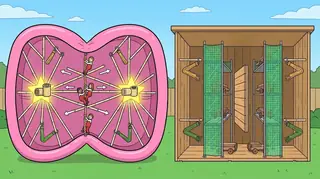
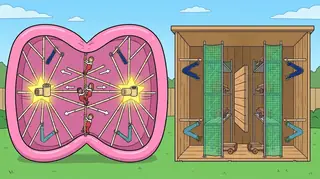
염색체 문법: L48b 짚을 남색 · 하늘색으로(PIL · 독자 셋 ○) · s4 · s7 글 · 잠금 옮김 · s4 짚 모양 불일치 대장 N-L48b-01
Claude-Session: https://claude.ai/code/session_01MmBfjCCfApg1Fah4PzyPtS

diff --git a/lesson/L48b.html b/lesson/L48b.html
@@ -140,7 +140,7 @@ const LStore = (() => {
   };
 })();
 
-const L0 = /*L0*/{"id":"L48b","scene":"s48","part":"b","title":"별 뜨는 풍선집 · 별 없는 창고 — 방추체와 세포질분열","sub":"풍선집(동물) — 별(성상체) · 꼭지의 직각 원통 둘(중심체 · 중심립) · 걸쇠 걸린 대롱(방추사) · 겹친 긴 대롱(극성 · 후기 B) · 허리 안쪽 팽팽한 살구색 줄 + 등반가(수축환 · 액틴 + 마이오신) / 창고(식물) — 별 없이 맨 벽 대롱 · 가운데부터 칸막이(세포판) · 초록 그물 비계 + 손수레(프라그모플라스트)","img":"img/L48b.webp?v=ce1fb19c6350","w":2048,"h":1144,"stops":[{"sid":"s1","obj":"볕 드는 뒷마당 — 왼쪽은 허리가 땅콩처럼 잘록한 분홍 풍선집 · 오른쪽은 벽이 꼿꼿한 나무 창고 · 둘 다 앞을 잘라 속을 보인다","fact":"동물 vs 식물의 분열 기계 — 별(성상체)과 꼭지(중심체)가 있나 없나 · 조여 가르나 가운데부터 쌓나","hook":"무른 풍선집 = 동물 · 꼿꼿한 창고 = 식물","say":"햇볕이 드는 뒷마당에 집 두 채가 있다. 왼쪽 분홍 풍선집은 벽이 부드러워 허리가 땅콩처럼 잘록해졌지만, 오른쪽 나무 창고는 벽이 단단해 조여지지 않는다. 풍선집은 세포벽 없이 세포막만 있는 동물세포, 창고는 세포벽이 있는 식물세포이며 둘 다 지금 둘로 나뉘고 있다. 동물은 별이 있고 허리를 조여 분리하며, 식물은 별 없이 가운데에 새 벽을 만든다.","box":null,"src":["s48p02#0"],"cards":[]},{"sid":"s2","obj":"풍선집 양 끝에 하나씩 뜬 빛나는 노란 별 — 가운데 꼭지에서 속 빈 대나무 대롱이 사방으로","fact":"성상체(별모양체) — 동물세포가 분열할 때 나타나고 식물세포엔 없다","hook":"별 모양 = 성상체(星狀)","say":"풍선집 양 끝의 노란 별을 보자. 가운데 꼭지에서 속이 빈 대나무 대롱이 사방으로 뻗어 별 모양을 이룬다. 동물세포 분열 때 나타나는 성상체, 별모양체이며 식물세포에는 없다. 대롱은 미세소관이다. 헛간에서 삼밧줄로 나타낸 구조를 가까이 보면 속이 빈 관이라는 뜻이다. 별 둘이 각각의 극이 된다.","box":[[190,490,160,170],[760,490,160,170]],"src":["s48p04#0"],"cards":["C1-76"]},{"sid":"s3","obj":"별 꼭지마다 냅킨 고리 같은 속 빈 원통 둘 — 하나는 눕고 하나는 서서 직각으로 붙었다","fact":"중심체 = 중심립 2개 · 둘은 서로 직각으로 놓인다","hook":"꼭지 = 중심체 · 원통 둘 = 중심립 · 직각","say":"별 가운데의 꼭지는 중심체다. 안에는 속이 빈 원통 둘이 있는데 하나는 누워 있고 하나는 서 있어 서로 직각이다. 중심체의 중심립 두 개와 직각 배열을 연결하자. 기출에서는 개수가 둘이라는 점과 직각이라는 점을 각각 묻는다.","box":[[220,536,110,84],[776,540,104,80]],"src":["s48p04#1"],"cards":["A0-129","C1-72"]},{"sid":"s4","obj":"별에서 뻗은 대롱 끝에 짚의 걸쇠가 걸렸다 — 별마다 위에 금빛 · 아래에 초록","fact":"중심체가 방추사(미세소관)를 만들어 염색체를 잡아당긴다","hook":"별의 대롱이 짚을 건다","say":"별에서 나온 일부 대롱 끝에는 짚의 걸쇠가 걸려 있다. 각 별의 위에는 금빛 짚 하나, 아래에는 초록 짚 하나가 있다. 중심체에서 만든 미세소관 방추사가 염색체를 붙잡아 당기는 모습이다. 염색분체를 당기는 방추사의 성분은 속 빈 대롱인 미세소관이다. 헛간 넷째 칸에서 양쪽 벽으로 이동하던 짚과 그때의 걸쇠를 연결하자.","box":[[280,290,100,120],[200,770,155,150],[730,290,90,120],[715,765,165,150]],"src":["s48p04#2"],"cards":["A0-131","C1-15"]},{"sid":"s5","obj":"두 별에서 나온 긴 대롱들이 한가운데에서 서로 엇갈려 겹친다 — 어느 걸쇠에도 걸리지 않았다","fact":"극성 미세소관 — 염색체에 붙지 않고 세포를 길게 늘린다","hook":"걸지 않고 겹친다 = 극성","say":"두 별에서 나온 긴 대롱은 가운데에서 서로 겹치지만 어떤 걸쇠에도 붙지 않는다. 염색체에 결합하지 않고 세포를 길게 만드는 극성 미세소관이다. 방추사를 모두 같은 역할로 외우지 말고, 염색체에 붙은 대롱과 구분하자.","box":[400,410,310,310],"src":["s48p04#3"],"cards":["C1-71"]},{"sid":"s6","obj":"겹친 대롱 위 흰 화살표는 왼쪽은 왼쪽 · 오른쪽은 오른쪽 · 별 뒤에 움직임 선 — 두 별이 벌어진다","fact":"후기 B — 극성 미세소관이 미끄러져 양극 사이가 멀어진다","hook":"B = 벌어진다(극이)","say":"겹친 대롱 위의 흰 화살표는 왼쪽은 왼쪽, 오른쪽은 오른쪽을 향하고 별 뒤에는 움직임 선이 있다. 겹친 부분이 미끄러지면서 두 별 사이가 멀어진다. 극성 미세소관이 양극을 벌리는 후기 B이다. 후기 A는 염색체가 극으로 이동하는 과정, 후기 B는 극 자체가 멀어지는 과정이다. B를 벌어짐과 연결하자.","box":[[370,410,370,335],[110,540,90,90],[900,540,80,90]],"src":["s48p04#4"],"cards":["C1-110"]},{"sid":"s7","obj":"창고 안 — 별도 빛도 없이 대롱이 맨 벽에서 곧장 나와 짚을 건다(벽마다 위 금빛 · 아래 초록)","fact":"식물세포엔 중심체 · 성상체가 없다 — 방추사는 별 없이 만든다","hook":"별 없는 창고","say":"나무 창고에는 별이나 빛나는 구조가 없지만 대롱은 있다. 벽에서 바로 뻗어 짚을 잡고 있다. 모든 진핵세포가 중심체를 가지는 것은 아니다. 식물세포에는 중심체와 성상체가 없지만, 별 없이도 방추사를 형성한다.","box":[[1140,350,160,560],[1800,350,170,560]],"src":["s48p04#5"],"cards":["A0-132"]},{"sid":"s8","obj":"풍선집 허리 — 가는 살구색 줄 한 가닥이 위아래 벽 안쪽에 팽팽히 묶여 벽을 끌어당긴다 · 집 밖에는 줄이 없다","fact":"동물 세포질분열 — 수축환이 세포막을 안쪽에서 조여 함입시킨다","hook":"안에서 조인다 = 함입","say":"풍선집 허리를 보자. 가는 살구색 줄 한 가닥이 위아래 벽의 안쪽에 팽팽히 연결되어 벽을 안으로 당긴다. 집 밖에는 줄이 없으며, 허리를 두른 고리를 옆에서 본 모습이다. 동물의 세포질분열에서는 세포막 바로 안쪽 수축환이 조여 막이 함입된다. 잘록해진 홈은 분할구이며, 밖에서 안으로 진행하는 구심성 분열이다. 새 벽을 만드는 대신 기존 세포막을 조여 나눈다.","box":[520,260,80,670],"src":["s48p02#1"],"cards":["C1-28","D0-87"]},{"sid":"s9","obj":"그 줄에 매달려 손을 바꿔 가며 당기는 빨간 멜빵 등반가들","fact":"수축환의 주성분 = 액틴(가는 꼰 줄)과 마이오신(당기는 쪽)","hook":"팽팽한 살구색 줄 = 액틴 · 등반가 = 마이오신","say":"살구색 줄에는 빨간 멜빵을 입은 등반가들이 매달려 번갈아 손을 옮기며 당긴다. 줄은 액틴 미세섬유, 당기는 사람은 마이오신이다. 세포연접 방에서 핵을 감싼 노란 꼬인 줄인 중간섬유와는 다르다. 줄만으로는 수축하지 못하고 당기는 단백질이 있어야 힘이 난다. 수축환은 액틴과 마이오신으로 이루어진다.","box":[490,350,130,500],"src":["s48p02#2"],"cards":["C1-29"]},{"sid":"s10","obj":"창고 — 벽은 꼿꼿 · 한가운데에 새 널빤지 칸막이가 공중에 떠 있다 · 지붕 · 바닥까지는 아직 틈","fact":"식물 세포질분열 — 세포판이 가운데에서 바깥으로 자라 옛 벽에 닿는다","hook":"가운데부터 쌓는다","say":"나무 창고의 벽은 조여지지 않고, 가운데에 새 널빤지 칸막이가 만들어지고 있다. 아직 가운데 부분만 서 있어 지붕과 바닥 사이에 틈이 남는다. 식물세포의 세포질분열은 세포판을 만드는 방식이다. 가운데에서 바깥으로 자라 기존 벽에 닿는 원심성 분열이다. 조일 수 없는 벽 안에서 새 칸막이를 쌓는다고 연결하자.","box":[1490,400,110,450],"src":["s48p02#3"],"cards":["C1-30","D0-88"]},{"sid":"s11","obj":"칸막이 양옆의 초록 플라스틱 그물 비계 · 그 선반과 바닥에 널빤지를 실은 손수레들","fact":"프라그모플라스트 — 세포판 만들 소낭(골지에서 옴)을 실어 나르는 틀","hook":"플라스틱 그물 = 플라스트 · 울타리처럼 선 비계 = 프라그모(그리스말로 울타리)","say":"칸막이 양쪽의 공사장 비계에 초록 플라스틱 그물이 둘러져 있다. 선반과 바닥에서는 널빤지를 실은 손수레가 칸막이 쪽으로 간다. 프라그모플라스트다. 플라스틱 그물은 플라스트, 그리스말로 울타리를 뜻하는 프라그모는 칸막이 양옆의 그물 비계와 연결한다. 이 구조는 세포판 재료를 담은 소낭을 운반하는 틀이다. 손수레는 창고 안의 골지에서 온 소낭이다. 세포판 그 자체가 아니라 세포판을 만들도록 돕는 틀이라는 점을 구분하자.","box":[[1300,260,240,740],[1570,260,240,740]],"src":["s48p02#4"],"cards":["C1-31"]}],"cq":{"C1-76":["식물세포에는 존재하지 않으나 동물세포 분열 시 나타나는 성상체 구조는?","별모양체 (Aster)"],"A0-129":["중심체(centrosome)의 구성?","한 쌍의 중심립(centriole) 포함"],"C1-72":["중심체(Centrosome)는 몇 개의 중심립으로 구성되는가?","2개 (직각 배열)"],"A0-131":["중심체/미세소관이 세포분열에서 하는 일(노트 표현)?","방추사를 만들어 염색체를 잡아당김"],"C1-15":["염색분체를 끌어당기는 방추사의 구성 성분은?","미세소관 (Microtubule)"],"C1-71":["방추사 미세소관 중 염색체에 붙지 않고 세포 길이를 늘리는 것은?","극성 미세소관"],"C1-110":["후기 B(Anaphase B)란?","극성 미세소관에 의해 양극 사이가 멀어지는 것"],"A0-132":["모든 진핵세포가 중심체를 갖는가?","아님"],"C1-28":["동물세포의 세포질 분열 방식은?","수축환 형성을 통한 세포막 함입"],"D0-87":["동물세포의 세포질분열 방식은?","분할구 형성(구심성 함입)"],"C1-29":["동물세포 수축환을 구성하는 주요 미세필라멘트 성분은?","액틴과 마이오신"],"C1-30":["식물세포의 세포질 분열 방식은?","세포판(Cell plate) 형성"],"D0-88":["식물세포의 세포질분열 방식은?","세포판 형성(원심성)"],"C1-31":["식물세포판 형성을 위해 소낭을 운반해오는 구조는?","프라그모플라스트 (Phragmoplast)"]},"hubPanel":"s48p02"}/*L1*/;   // 다음 그림을 그 자리에서 바꿔 끼울 때, 받아 온 과 쪽에서 이 두 표지 사이의 글을 읽는다
+const L0 = /*L0*/{"id":"L48b","scene":"s48","part":"b","title":"별 뜨는 풍선집 · 별 없는 창고 — 방추체와 세포질분열","sub":"풍선집(동물) — 별(성상체) · 꼭지의 직각 원통 둘(중심체 · 중심립) · 걸쇠 걸린 대롱(방추사) · 겹친 긴 대롱(극성 · 후기 B) · 허리 안쪽 팽팽한 살구색 줄 + 등반가(수축환 · 액틴 + 마이오신) / 창고(식물) — 별 없이 맨 벽 대롱 · 가운데부터 칸막이(세포판) · 초록 그물 비계 + 손수레(프라그모플라스트)","img":"img/L48b.webp?v=d3b08881c59f","w":2048,"h":1144,"stops":[{"sid":"s1","obj":"볕 드는 뒷마당 — 왼쪽은 허리가 땅콩처럼 잘록한 분홍 풍선집 · 오른쪽은 벽이 꼿꼿한 나무 창고 · 둘 다 앞을 잘라 속을 보인다","fact":"동물 vs 식물의 분열 기계 — 별(성상체)과 꼭지(중심체)가 있나 없나 · 조여 가르나 가운데부터 쌓나","hook":"무른 풍선집 = 동물 · 꼿꼿한 창고 = 식물","say":"햇볕이 드는 뒷마당에 집 두 채가 있다. 왼쪽 분홍 풍선집은 벽이 부드러워 허리가 땅콩처럼 잘록해졌지만, 오른쪽 나무 창고는 벽이 단단해 조여지지 않는다. 풍선집은 세포벽 없이 세포막만 있는 동물세포, 창고는 세포벽이 있는 식물세포이며 둘 다 지금 둘로 나뉘고 있다. 동물은 별이 있고 허리를 조여 분리하며, 식물은 별 없이 가운데에 새 벽을 만든다.","box":null,"src":["s48p02#0"],"cards":[]},{"sid":"s2","obj":"풍선집 양 끝에 하나씩 뜬 빛나는 노란 별 — 가운데 꼭지에서 속 빈 대나무 대롱이 사방으로","fact":"성상체(별모양체) — 동물세포가 분열할 때 나타나고 식물세포엔 없다","hook":"별 모양 = 성상체(星狀)","say":"풍선집 양 끝의 노란 별을 보자. 가운데 꼭지에서 속이 빈 대나무 대롱이 사방으로 뻗어 별 모양을 이룬다. 동물세포 분열 때 나타나는 성상체, 별모양체이며 식물세포에는 없다. 대롱은 미세소관이다. 헛간에서 삼밧줄로 나타낸 구조를 가까이 보면 속이 빈 관이라는 뜻이다. 별 둘이 각각의 극이 된다.","box":[[190,490,160,170],[760,490,160,170]],"src":["s48p04#0"],"cards":["C1-76"]},{"sid":"s3","obj":"별 꼭지마다 냅킨 고리 같은 속 빈 원통 둘 — 하나는 눕고 하나는 서서 직각으로 붙었다","fact":"중심체 = 중심립 2개 · 둘은 서로 직각으로 놓인다","hook":"꼭지 = 중심체 · 원통 둘 = 중심립 · 직각","say":"별 가운데의 꼭지는 중심체다. 안에는 속이 빈 원통 둘이 있는데 하나는 누워 있고 하나는 서 있어 서로 직각이다. 중심체의 중심립 두 개와 직각 배열을 연결하자. 기출에서는 개수가 둘이라는 점과 직각이라는 점을 각각 묻는다.","box":[[220,536,110,84],[776,540,104,80]],"src":["s48p04#1"],"cards":["A0-129","C1-72"]},{"sid":"s4","obj":"별에서 뻗은 대롱 끝에 짚의 걸쇠가 걸렸다 — 별마다 위에 남색 · 아래에 하늘색","fact":"중심체가 방추사(미세소관)를 만들어 염색체를 잡아당긴다","hook":"별의 대롱이 짚을 건다","say":"별에서 나온 일부 대롱 끝에는 짚의 걸쇠가 걸려 있다. 각 별의 위에는 남색 짚 하나, 아래에는 하늘색 짚 하나가 있다. 남색과 하늘색, 상동 한 쌍만 크게 그린 장면이다. 극마다 짝이 다 가니 딸세포는 2n이다. 중심체에서 만든 미세소관 방추사가 염색체를 붙잡아 당기는 모습이다. 염색분체를 당기는 방추사의 성분은 속 빈 대롱인 미세소관이다. 헛간 넷째 칸에서 양쪽 벽으로 이동하던 짚과 그때의 걸쇠를 연결하자.","box":[[280,290,100,120],[200,770,155,150],[730,290,90,120],[715,765,165,150]],"src":["s48p04#2"],"cards":["A0-131","C1-15"]},{"sid":"s5","obj":"두 별에서 나온 긴 대롱들이 한가운데에서 서로 엇갈려 겹친다 — 어느 걸쇠에도 걸리지 않았다","fact":"극성 미세소관 — 염색체에 붙지 않고 세포를 길게 늘린다","hook":"걸지 않고 겹친다 = 극성","say":"두 별에서 나온 긴 대롱은 가운데에서 서로 겹치지만 어떤 걸쇠에도 붙지 않는다. 염색체에 결합하지 않고 세포를 길게 만드는 극성 미세소관이다. 방추사를 모두 같은 역할로 외우지 말고, 염색체에 붙은 대롱과 구분하자.","box":[400,410,310,310],"src":["s48p04#3"],"cards":["C1-71"]},{"sid":"s6","obj":"겹친 대롱 위 흰 화살표는 왼쪽은 왼쪽 · 오른쪽은 오른쪽 · 별 뒤에 움직임 선 — 두 별이 벌어진다","fact":"후기 B — 극성 미세소관이 미끄러져 양극 사이가 멀어진다","hook":"B = 벌어진다(극이)","say":"겹친 대롱 위의 흰 화살표는 왼쪽은 왼쪽, 오른쪽은 오른쪽을 향하고 별 뒤에는 움직임 선이 있다. 겹친 부분이 미끄러지면서 두 별 사이가 멀어진다. 극성 미세소관이 양극을 벌리는 후기 B이다. 후기 A는 염색체가 극으로 이동하는 과정, 후기 B는 극 자체가 멀어지는 과정이다. B를 벌어짐과 연결하자.","box":[[370,410,370,335],[110,540,90,90],[900,540,80,90]],"src":["s48p04#4"],"cards":["C1-110"]},{"sid":"s7","obj":"창고 안 — 별도 빛도 없이 대롱이 맨 벽에서 곧장 나와 짚을 건다(벽마다 위 남색 · 아래 하늘색)","fact":"식물세포엔 중심체 · 성상체가 없다 — 방추사는 별 없이 만든다","hook":"별 없는 창고","say":"나무 창고에는 별이나 빛나는 구조가 없지만 대롱은 있다. 벽에서 바로 뻗어 짚을 잡고 있다. 모든 진핵세포가 중심체를 가지는 것은 아니다. 식물세포에는 중심체와 성상체가 없지만, 별 없이도 방추사를 형성한다.","box":[[1140,350,160,560],[1800,350,170,560]],"src":["s48p04#5"],"cards":["A0-132"]},{"sid":"s8","obj":"풍선집 허리 — 가는 살구색 줄 한 가닥이 위아래 벽 안쪽에 팽팽히 묶여 벽을 끌어당긴다 · 집 밖에는 줄이 없다","fact":"동물 세포질분열 — 수축환이 세포막을 안쪽에서 조여 함입시킨다","hook":"안에서 조인다 = 함입","say":"풍선집 허리를 보자. 가는 살구색 줄 한 가닥이 위아래 벽의 안쪽에 팽팽히 연결되어 벽을 안으로 당긴다. 집 밖에는 줄이 없으며, 허리를 두른 고리를 옆에서 본 모습이다. 동물의 세포질분열에서는 세포막 바로 안쪽 수축환이 조여 막이 함입된다. 잘록해진 홈은 분할구이며, 밖에서 안으로 진행하는 구심성 분열이다. 새 벽을 만드는 대신 기존 세포막을 조여 나눈다.","box":[520,260,80,670],"src":["s48p02#1"],"cards":["C1-28","D0-87"]},{"sid":"s9","obj":"그 줄에 매달려 손을 바꿔 가며 당기는 빨간 멜빵 등반가들","fact":"수축환의 주성분 = 액틴(가는 꼰 줄)과 마이오신(당기는 쪽)","hook":"팽팽한 살구색 줄 = 액틴 · 등반가 = 마이오신","say":"살구색 줄에는 빨간 멜빵을 입은 등반가들이 매달려 번갈아 손을 옮기며 당긴다. 줄은 액틴 미세섬유, 당기는 사람은 마이오신이다. 세포연접 방에서 핵을 감싼 노란 꼬인 줄인 중간섬유와는 다르다. 줄만으로는 수축하지 못하고 당기는 단백질이 있어야 힘이 난다. 수축환은 액틴과 마이오신으로 이루어진다.","box":[490,350,130,500],"src":["s48p02#2"],"cards":["C1-29"]},{"sid":"s10","obj":"창고 — 벽은 꼿꼿 · 한가운데에 새 널빤지 칸막이가 공중에 떠 있다 · 지붕 · 바닥까지는 아직 틈","fact":"식물 세포질분열 — 세포판이 가운데에서 바깥으로 자라 옛 벽에 닿는다","hook":"가운데부터 쌓는다","say":"나무 창고의 벽은 조여지지 않고, 가운데에 새 널빤지 칸막이가 만들어지고 있다. 아직 가운데 부분만 서 있어 지붕과 바닥 사이에 틈이 남는다. 식물세포의 세포질분열은 세포판을 만드는 방식이다. 가운데에서 바깥으로 자라 기존 벽에 닿는 원심성 분열이다. 조일 수 없는 벽 안에서 새 칸막이를 쌓는다고 연결하자.","box":[1490,400,110,450],"src":["s48p02#3"],"cards":["C1-30","D0-88"]},{"sid":"s11","obj":"칸막이 양옆의 초록 플라스틱 그물 비계 · 그 선반과 바닥에 널빤지를 실은 손수레들","fact":"프라그모플라스트 — 세포판 만들 소낭(골지에서 옴)을 실어 나르는 틀","hook":"플라스틱 그물 = 플라스트 · 울타리처럼 선 비계 = 프라그모(그리스말로 울타리)","say":"칸막이 양쪽의 공사장 비계에 초록 플라스틱 그물이 둘러져 있다. 선반과 바닥에서는 널빤지를 실은 손수레가 칸막이 쪽으로 간다. 프라그모플라스트다. 플라스틱 그물은 플라스트, 그리스말로 울타리를 뜻하는 프라그모는 칸막이 양옆의 그물 비계와 연결한다. 이 구조는 세포판 재료를 담은 소낭을 운반하는 틀이다. 손수레는 창고 안의 골지에서 온 소낭이다. 세포판 그 자체가 아니라 세포판을 만들도록 돕는 틀이라는 점을 구분하자.","box":[[1300,260,240,740],[1570,260,240,740]],"src":["s48p02#4"],"cards":["C1-31"]}],"cq":{"C1-76":["식물세포에는 존재하지 않으나 동물세포 분열 시 나타나는 성상체 구조는?","별모양체 (Aster)"],"A0-129":["중심체(centrosome)의 구성?","한 쌍의 중심립(centriole) 포함"],"C1-72":["중심체(Centrosome)는 몇 개의 중심립으로 구성되는가?","2개 (직각 배열)"],"A0-131":["중심체/미세소관이 세포분열에서 하는 일(노트 표현)?","방추사를 만들어 염색체를 잡아당김"],"C1-15":["염색분체를 끌어당기는 방추사의 구성 성분은?","미세소관 (Microtubule)"],"C1-71":["방추사 미세소관 중 염색체에 붙지 않고 세포 길이를 늘리는 것은?","극성 미세소관"],"C1-110":["후기 B(Anaphase B)란?","극성 미세소관에 의해 양극 사이가 멀어지는 것"],"A0-132":["모든 진핵세포가 중심체를 갖는가?","아님"],"C1-28":["동물세포의 세포질 분열 방식은?","수축환 형성을 통한 세포막 함입"],"D0-87":["동물세포의 세포질분열 방식은?","분할구 형성(구심성 함입)"],"C1-29":["동물세포 수축환을 구성하는 주요 미세필라멘트 성분은?","액틴과 마이오신"],"C1-30":["식물세포의 세포질 분열 방식은?","세포판(Cell plate) 형성"],"D0-88":["식물세포의 세포질분열 방식은?","세포판 형성(원심성)"],"C1-31":["식물세포판 형성을 위해 소낭을 운반해오는 구조는?","프라그모플라스트 (Phragmoplast)"]},"hubPanel":"s48p02"}/*L1*/;   // 다음 그림을 그 자리에서 바꿔 끼울 때, 받아 온 과 쪽에서 이 두 표지 사이의 글을 읽는다
 let L = L0;
 const $ = id => document.getElementById(id);
 // 요약 줄(sub)에는 물건 = 답이 다 적혀 있다 — 복습 · 시험에서는 접어 두고, 누르면 편다(GPT 추가 감사 2026-11-11 §7)

diff --git a/lesson/index.html b/lesson/index.html
@@ -60,7 +60,7 @@ dialog#big.fb[open]{position:fixed;inset:2vh 2vw;margin:auto;z-index:50;box-shad
 <div class="row" data-id="L19d" data-title="게놈의 수호자 — p53과 종양억제유전자" data-img="img/L19d.webp?v=94e060f06510"><button class="thumb" type="button" aria-label="L19d 그림 크게 보기"><img src="thumb/L19d.webp?v=94e060f06510" width="160" height="90" loading="lazy" decoding="async" alt=""></button><a class="card" href="L19d.html"><b>L19d</b> 게놈의 수호자 — p53과 종양억제유전자<div class="sub">정거장 14 · 기출 카드 36 · DNA 손상 → ATM/ATR → p53(5·3) → p21(2·1) 굄목 · 구덩이(사멸) · 빗장 둘(두 대립유전자 · 열성) · 쥐(Ras) · 쏟아지는 음반(암) · 깁기(BRCA) · 셋(p53 · Rb · BRCA1)</div></a><span class="starset" role="group" aria-label="별점 없음" data-n="0"><button class="star" type="button" data-n="1" aria-pressed="false" aria-label="1점">☆</button><button class="star" type="button" data-n="2" aria-pressed="false" aria-label="2점">☆</button><button class="star" type="button" data-n="3" aria-pressed="false" aria-label="3점">☆</button><button class="star" type="button" data-n="4" aria-pressed="false" aria-label="4점">☆</button><button class="star" type="button" data-n="5" aria-pressed="false" aria-label="5점">☆</button></span></div>
 <div class="row" data-id="L19h" data-title="밧줄이 묶이는 자리 · 걸쇠 하나가 비면 — 중심절 · 동원체 · 방추사 검문소" data-img="img/L19h.webp?v=dcdcfffd5066"><button class="thumb" type="button" aria-label="L19h 그림 크게 보기"><img src="thumb/L19h.webp?v=dcdcfffd5066" width="160" height="90" loading="lazy" decoding="async" alt=""></button><a class="card" href="L19h.html"><b>L19h</b> 밧줄이 묶이는 자리 · 걸쇠 하나가 비면 — 중심절 · 동원체 · 방추사 검문소<div class="sub">정거장 12 · 기출 카드 15 · 두 다발 짚단의 잘록한 허리(중심절) · 덧댄 쇠판 둘(동원체) · 바깥으로 휜 걸쇠(방향) · 삼밧줄은 쇠판에만(미세소관) · 통 다섯 중 남색 + A 사다리(CENP-A) · 고리(코헤신) + 수호신(슈고신) · 셋 중 빈 걸쇠 하나(검문소 전원) · 매듭 둘 끈(Mad2) → 걸이판 칭칭(Cdc20) · 떨어진 끈(장력)</div></a><span class="starset" role="group" aria-label="별점 없음" data-n="0"><button class="star" type="button" data-n="1" aria-pressed="false" aria-label="1점">☆</button><button class="star" type="button" data-n="2" aria-pressed="false" aria-label="2점">☆</button><button class="star" type="button" data-n="3" aria-pressed="false" aria-label="3점">☆</button><button class="star" type="button" data-n="4" aria-pressed="false" aria-label="4점">☆</button><button class="star" type="button" data-n="5" aria-pressed="false" aria-label="5점">☆</button></span></div>
 <div class="row" data-id="L48a" data-title="다섯 칸 헛간 — 천막이 무너졌다가 다시 선다" data-img="img/L48a.webp?v=742087dfe95e"><button class="thumb" type="button" aria-label="L48a 그림 크게 보기"><img src="thumb/L48a.webp?v=742087dfe95e" width="160" height="90" loading="lazy" decoding="async" alt=""></button><a class="card" href="L48a.html"><b>L48a</b> 다섯 칸 헛간 — 천막이 무너졌다가 다시 선다<div class="sub">정거장 11 · 기출 카드 10 · 전기(찢어진 채 선 천막 · 바람 빠진 공 · 묶인 짚단 · 못 닿는 밧줄) → 전중기(무너진 더미 · 걸쇠를 낚은 밧줄) → 중기(한 줄 · 흰 점선 · 사진기) → 후기(넷 · 금 하나 초록 하나씩 양쪽 벽) → 말기(기운 새 천막 둘 · 풀린 짚 · 밧줄 없음)</div></a><span class="starset" role="group" aria-label="별점 없음" data-n="0"><button class="star" type="button" data-n="1" aria-pressed="false" aria-label="1점">☆</button><button class="star" type="button" data-n="2" aria-pressed="false" aria-label="2점">☆</button><button class="star" type="button" data-n="3" aria-pressed="false" aria-label="3점">☆</button><button class="star" type="button" data-n="4" aria-pressed="false" aria-label="4점">☆</button><button class="star" type="button" data-n="5" aria-pressed="false" aria-label="5점">☆</button></span></div>
-<div class="row" data-id="L48b" data-title="별 뜨는 풍선집 · 별 없는 창고 — 방추체와 세포질분열" data-img="img/L48b.webp?v=ce1fb19c6350"><button class="thumb" type="button" aria-label="L48b 그림 크게 보기"><img src="thumb/L48b.webp?v=ce1fb19c6350" width="160" height="90" loading="lazy" decoding="async" alt=""></button><a class="card" href="L48b.html"><b>L48b</b> 별 뜨는 풍선집 · 별 없는 창고 — 방추체와 세포질분열<div class="sub">정거장 11 · 기출 카드 14 · 풍선집(동물) — 별(성상체) · 꼭지의 직각 원통 둘(중심체 · 중심립) · 걸쇠 걸린 대롱(방추사) · 겹친 긴 대롱(극성 · 후기 B) · 허리 안쪽 팽팽한 살구색 줄 + 등반가(수축환 · 액틴 + 마이오신) / 창고(식물) — 별 없이 맨 벽 대롱 · 가운데부터 칸막이(세포판) · 초록 그물 비계 + 손수레(프라그모플라스트)</div></a><span class="starset" role="group" aria-label="별점 없음" data-n="0"><button class="star" type="button" data-n="1" aria-pressed="false" aria-label="1점">☆</button><button class="star" type="button" data-n="2" aria-pressed="false" aria-label="2점">☆</button><button class="star" type="button" data-n="3" aria-pressed="false" aria-label="3점">☆</button><button class="star" type="button" data-n="4" aria-pressed="false" aria-label="4점">☆</button><button class="star" type="button" data-n="5" aria-pressed="false" aria-label="5점">☆</button></span></div><aside class="related"><h4>함께 볼 그림</h4><ul><li><a href="L14b.html">L14b · 미세소관과 중심체</a></li><li><a href="L11a.html">L11a · S기의 DNA 복제</a></li></ul></aside></section>
+<div class="row" data-id="L48b" data-title="별 뜨는 풍선집 · 별 없는 창고 — 방추체와 세포질분열" data-img="img/L48b.webp?v=d3b08881c59f"><button class="thumb" type="button" aria-label="L48b 그림 크게 보기"><img src="thumb/L48b.webp?v=d3b08881c59f" width="160" height="90" loading="lazy" decoding="async" alt=""></button><a class="card" href="L48b.html"><b>L48b</b> 별 뜨는 풍선집 · 별 없는 창고 — 방추체와 세포질분열<div class="sub">정거장 11 · 기출 카드 14 · 풍선집(동물) — 별(성상체) · 꼭지의 직각 원통 둘(중심체 · 중심립) · 걸쇠 걸린 대롱(방추사) · 겹친 긴 대롱(극성 · 후기 B) · 허리 안쪽 팽팽한 살구색 줄 + 등반가(수축환 · 액틴 + 마이오신) / 창고(식물) — 별 없이 맨 벽 대롱 · 가운데부터 칸막이(세포판) · 초록 그물 비계 + 손수레(프라그모플라스트)</div></a><span class="starset" role="group" aria-label="별점 없음" data-n="0"><button class="star" type="button" data-n="1" aria-pressed="false" aria-label="1점">☆</button><button class="star" type="button" data-n="2" aria-pressed="false" aria-label="2점">☆</button><button class="star" type="button" data-n="3" aria-pressed="false" aria-label="3점">☆</button><button class="star" type="button" data-n="4" aria-pressed="false" aria-label="4점">☆</button><button class="star" type="button" data-n="5" aria-pressed="false" aria-label="5점">☆</button></span></div><aside class="related"><h4>함께 볼 그림</h4><ul><li><a href="L14b.html">L14b · 미세소관과 중심체</a></li><li><a href="L11a.html">L11a · S기의 DNA 복제</a></li></ul></aside></section>
 <section class="chapter" aria-labelledby="cell-death"><div class="chapter-head"><h3 id="cell-death" tabindex="-1">아폽토시스와 괴사</h3><a class="back" href="#contents">목차로 ↑</a></div>
 <div class="row" data-id="L19e" data-title="구덩이 안의 두 길 — 아폽토시스 경로" data-img="img/L19e.webp?v=39ed4b3e0d39"><button class="thumb" type="button" aria-label="L19e 그림 크게 보기"><img src="thumb/L19e.webp?v=39ed4b3e0d39" width="160" height="90" loading="lazy" decoding="async" alt=""></button><a class="card" href="L19e.html"><b>L19e</b> 구덩이 안의 두 길 — 아폽토시스 경로<div class="sub">정거장 13 · 기출 카드 28 · 외인성 Fas–FasL · 내인성 시토크롬 c와 Apaf-1 · 아폽토솜 · 개시 캐스페이즈-8·9와 실행 캐스페이즈-3 · Asp 뒤 절단</div></a><span class="starset" role="group" aria-label="별점 없음" data-n="0"><button class="star" type="button" data-n="1" aria-pressed="false" aria-label="1점">☆</button><button class="star" type="button" data-n="2" aria-pressed="false" aria-label="2점">☆</button><button class="star" type="button" data-n="3" aria-pressed="false" aria-label="3점">☆</button><button class="star" type="button" data-n="4" aria-pressed="false" aria-label="4점">☆</button><button class="star" type="button" data-n="5" aria-pressed="false" aria-label="5점">☆</button></span></div>
 <div class="row" data-id="L19f" data-title="스스로 지는 잎과 터진 자루 — 아폽토시스와 괴사" data-img="img/L19f.webp?v=f9a38c56a515"><button class="thumb" type="button" aria-label="L19f 그림 크게 보기"><img src="thumb/L19f.webp?v=f9a38c56a515" width="160" height="90" loading="lazy" decoding="async" alt=""></button><a class="card" href="L19f.html"><b>L19f</b> 스스로 지는 잎과 터진 자루 — 아폽토시스와 괴사<div class="sub">정거장 12 · 기출 카드 19 · 단일세포 vs 세포군 · 떨어져 나감 · ATP(태엽) · 수포 · 닫힌 소체 · 깨끗한 바닥 · 식균 · 염증 · 리소좀 · DNA 분획(래더) · PS 노출</div></a><span class="starset" role="group" aria-label="별점 없음" data-n="0"><button class="star" type="button" data-n="1" aria-pressed="false" aria-label="1점">☆</button><button class="star" type="button" data-n="2" aria-pressed="false" aria-label="2점">☆</button><button class="star" type="button" data-n="3" aria-pressed="false" aria-label="3점">☆</button><button class="star" type="button" data-n="4" aria-pressed="false" aria-label="4점">☆</button><button class="star" type="button" data-n="5" aria-pressed="false" aria-label="5점">☆</button></span></div>

diff --git a/tools/plan/상시요청.md b/tools/plan/상시요청.md
@@ -10,7 +10,7 @@
 |---|---|---|---|---|
 | 1 | 보기 화면 기능 넷(별표 · 썸네일 · 반복 재생 · 자동 넘김) | 하는 중 — 만듦 · GitHub 에 아직 없음 | 다른 세션(「Biology2 녹음 작업 실행」)이 커밋 9bf3825..211ee82 · `test/verify_lessonui.js` 59 로 만듦. 그 번들 b2_h133 을 감사 세션이 덮어써 사라져, main(970e982) 위로 다시 묶어 b2_h135 로 냈으나 **가지 이름이 HEAD 라 push_b2.sh 가 「couldn't find remote ref main」으로 멈췄다**(h137 도 같이 안 올라감 · 14:25 로그 확인). h137 과 합쳐 refs/heads/main 번들 **b2_h138** 하나로 다시 묶음(2026-11-23 14:5x · push_b2.sh 는 HEAD 가지도 받고 결과를 push_b2.log 에 남기게 고침) | 사용자: 사이트에서 눌러 보기 · 어긋난 곳은 여기에 적는다 — 14:47 지적 둘은 1-1 — 별 5개(1~5점 · 같은 별을 다시 누르면 지움 · 옛 별표는 5점 · `test/verify_lessonui.js` 60) · 자동 넘김은 사이트에서 L48g → L52a 로 넘어가는 것을 확인했고, 켜는 순간 지금 상태 안내(▶ 를 눌러야 한다 · 마지막 그림 뒤에 넘어간다)가 뜨게 함. 그래도 안 되면 어느 과 · 어느 단추인지 알려 주세요 |
 | 2 | 새 그림의 phonetic cue · link 감사를 다시 하고 cue 가 그림에 보이게 | 하는 중 — 감사 142/142 끝 · 그림 반영 0 | 덱 감사 `tools/audit/2026-11-23/덱감사.json` 142과 · 이름 장부 `tools/cue/names/장부.json`(갈래 ㉮? ~ ㉲ 를 감사에서 닮) · 문 1 `test/verify_names.js`(기준선 N + N′ 600 짝) · 대역이 「하는 일로 짐작」을 ㉱ 로 적은 것을 본 세션이 ㉲ 로 고침(L52a 넷 · L13g 둘 · L20e 하나) | `고침순위.md` 의 자를 선(가 · 나 · 다)을 사용자가 고름 → ④ 염색체 → ⑤ |
-| 3 | 자매염색분체 · 상동염색체 표현을 덱 전체에서 일관되게 | 하는 중 — 6+1 여섯 안 · 재공모까지 합격 0(최고 E 84 · 엮은 86) → 「사용자에게」 | 6+1 `tools/cue/jobs/1123_기호_염색체문법/`(r1 · r2 심판 · 사용자에게.md 맨 아래) · 사용자가 L48b 잠금 풀기를 정함(15:05) → 심판의 확인 · 고칠 곳 · 그리기 명세 `결정.md` 끝 · 글 고침 끝(2026-11-23: L19h L19a L35c L19c s7 · 대기 사유 풀림 L36b L05b) · 남은 것 = 그림(L48b · L37a · L19c s12 · L48f · L48g · L48a) · 기호 「염색체문법」 묶음 대기 · 걸린 과 L19a L19h L35c L36a L37a L48g + L48a L48b L48f L34b L36b · 문 2 `test/verify_canon.js`(2026-11-23 · 규칙 다섯 · 어긋남 2 = 알도스테론 L07b · L17b · 염색체 규칙은 아직 없음) | 사용자: 선택 둘 · 정한 뒤 고치기 + 「대기」 풀기 |
+| 3 | 자매염색분체 · 상동염색체 표현을 덱 전체에서 일관되게 | 하는 중 — 6+1 여섯 안 · 재공모까지 합격 0(최고 E 84 · 엮은 86) → 「사용자에게」 | 6+1 `tools/cue/jobs/1123_기호_염색체문법/`(r1 · r2 심판 · 사용자에게.md 맨 아래) · 사용자가 L48b 잠금 풀기를 정함(15:05) → 심판의 확인 · 고칠 곳 · 그리기 명세 `결정.md` 끝 · 글 고침 끝(2026-11-23: L19h L19a L35c L19c s7 · 대기 사유 풀림 L36b L05b) · L48b 그림 남색 · 하늘색 끝(독자 셋 ○ · s3 s5 s7 녹음 구간은 맞음 · 다시 잠금은 L37a-01 · L48g-01 뒤) · L48b s4 짚 곧음/V 불일치 = 대장 N-L48b-01 · 남은 것 = 그림(L37a · L19c s12 · L48f · L48g · L48a · L48b s4) · 기호 「염색체문법」 묶음 대기 · 걸린 과 L19a L19h L35c L36a L37a L48g + L48a L48b L48f L34b L36b · 문 2 `test/verify_canon.js`(2026-11-23 · 규칙 다섯 · 어긋남 2 = 알도스테론 L07b · L17b · 염색체 규칙은 아직 없음) | 사용자: 선택 둘 · 정한 뒤 고치기 + 「대기」 풀기 |
 | 4 | 소품 · 상황 · Sketchy 요소 · 그림 간 연결 · 고치기는 6+1(보통 일감은 제안자 셋 가 · 다 · 라 → 심판 · 기호 일감만 여섯 · 재공모 한 번 · 안 되면 「사용자에게」 — 2026-11-23 사용자 결정, `tools/cue/README.md` §0) | 하는 중 7 일감 | `tools/cue/jobs/` 1122_L07b · 1122_L45c · 1122_기호_G단백질(커밋 5907398 · 373d674) · 1123_L16a(여섯 · 합격 3) · 1123_L23c(합격 0 · 사용자에게 4) · 1123_L15a(합격 GPCR · 사용자에게 트랜스형) · 1123_내분비_이름(합격 TSH · ACTH · 사용자에게 6) · 합격은 모두 그림 길이라 이름 4 에서 그림 · `tools/cue/names/사용자에게.md` · 6+1 문 = `test/verify_standing.js` ③ + `test/cue_baseline.json` · `tools/cue/jobs/index.json` | 고리를 바꾸는 모든 일에 6+1 · 기록 · 남은 6+1: L51a 나머지 · L07e 나머지 · 염색체 기호 일감(여섯) |
 | 5 | (가장 중요) 배운 것으로 다른 그림에서도 문제를 찾아 알아서 고치기 — 지적은 표면일 뿐 | 하는 중 — 찾기 142/142 끝 · 고치기 0 | 채점표 `tools/cue/RUBRIC.md` · `덱감사.json`(+ `.md`) 142과 2,536 줄 · `고침순위.md`(`mkrank.py` — 급 × 카드 × 기출) | 사용자가 자를 선을 고르면 그 선까지 위에서부터 고침(지시서 §8.3) |
 | 6 | 이것들을 또 잊지 않게 | 하는 중 | `CLAUDE.md` · 이 파일 · `test/verify_standing.js`(`test/all.js` 에 넣음) | 보고마다 이 표를 맨 위에 |
